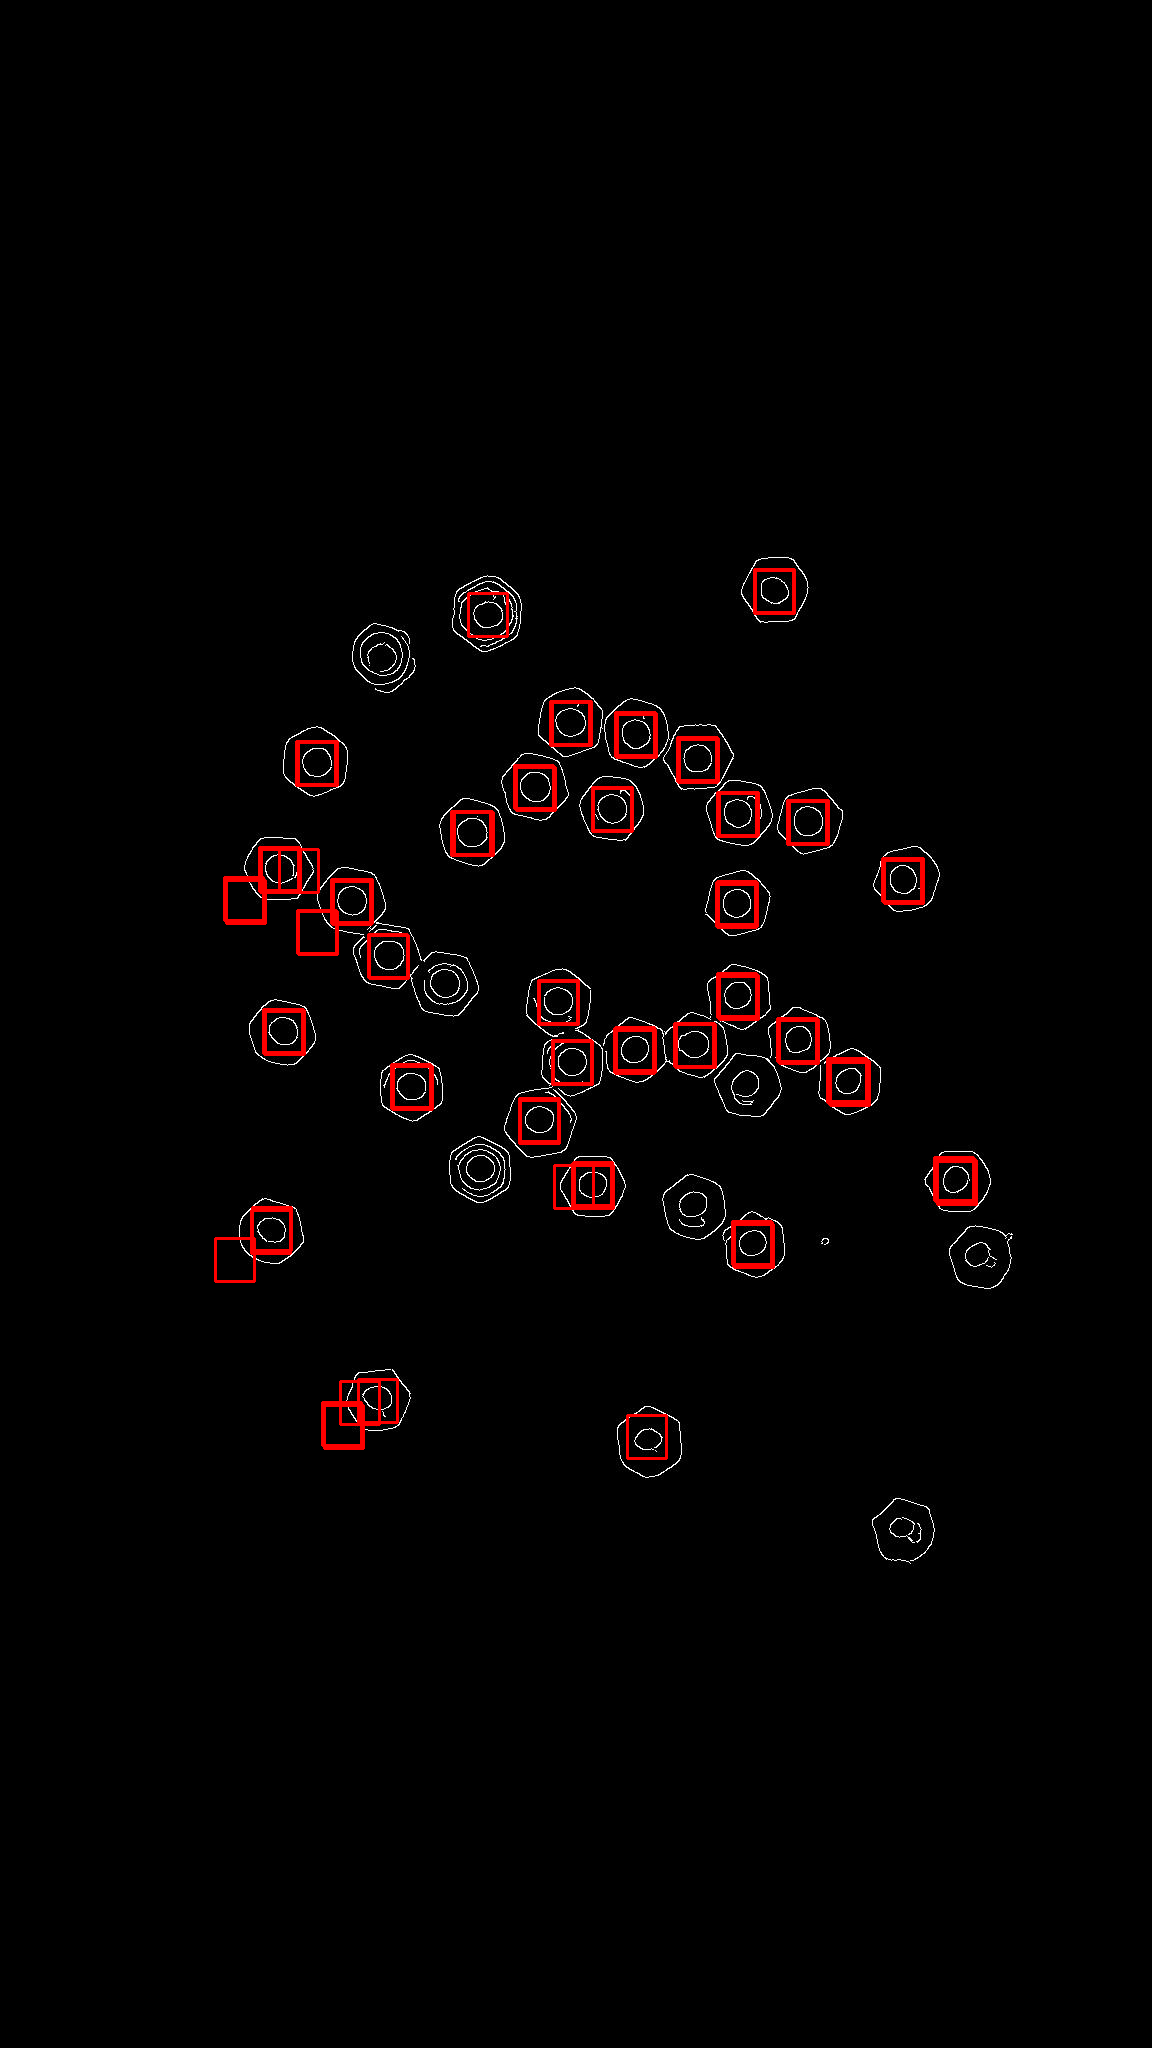
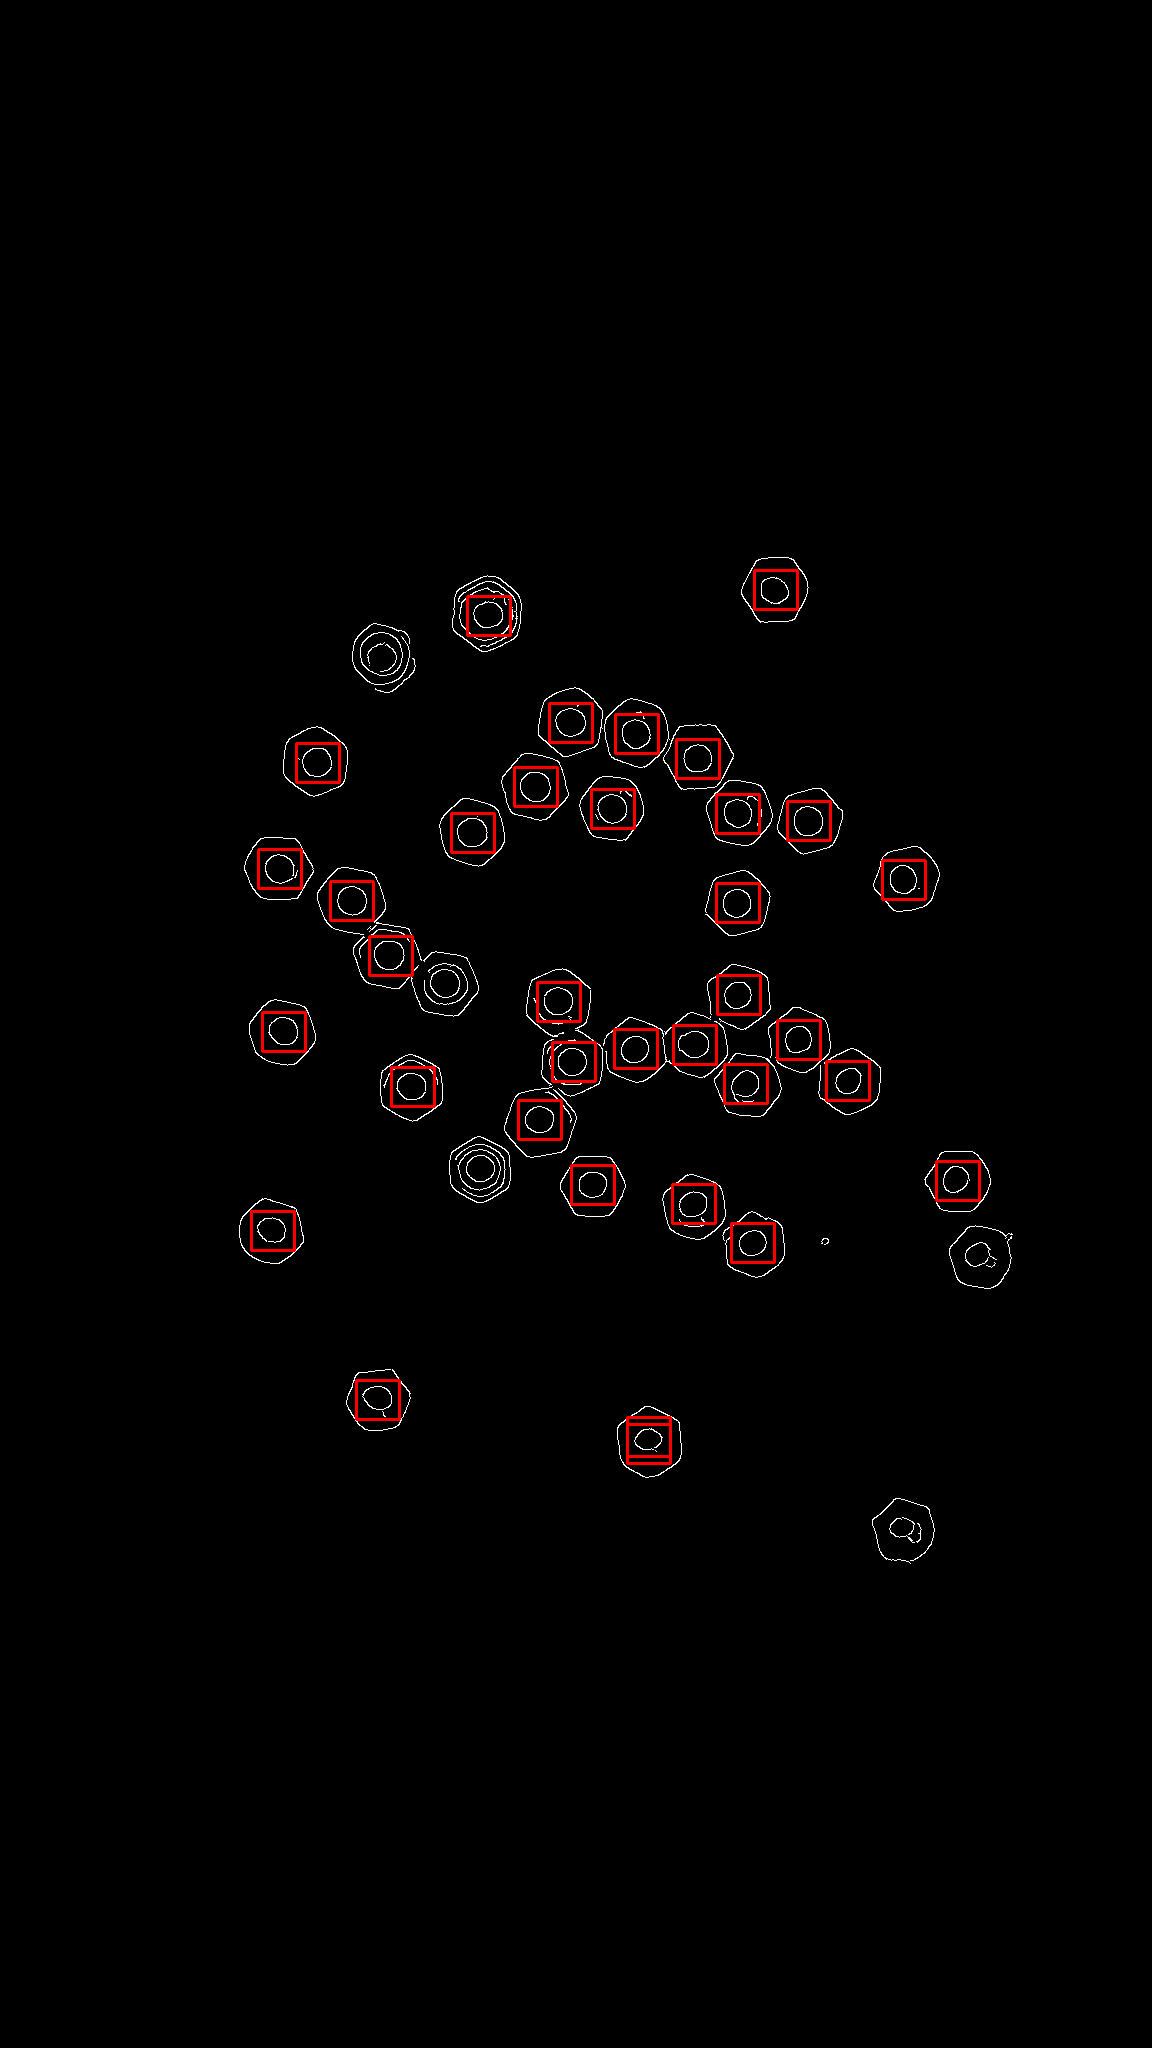
img_count success

diff --git a/final/experiment/template_match2.py b/final/experiment/template_match2.py
@@ -1,0 +1,127 @@
+import numpy as np
+import cv2 as cv
+import math
+
+# from google.colab.patches import cv_imshow
+img = cv.imread('img/rings.jpg') #read image
+hsv_img = cv.cvtColor(img, cv.COLOR_BGR2HSV)  #convert to hsv
+
+# Range for lower red
+lower_red = np.array([0,5,0])
+upper_red = np.array([60,255,255])
+mask1 = cv.inRange(hsv_img, lower_red, upper_red)
+# Range for upper range
+lower_red = np.array([170,30,0])
+upper_red = np.array([100,255,255])
+mask2 = cv.inRange(hsv_img,lower_red,upper_red)
+# mask for lower and upper red
+mask = mask1 + mask2
+# Get image in red pixel only
+redImage = cv.bitwise_and(img.copy(), img.copy(), mask=mask)
+
+gray = cv.cvtColor(redImage, cv.COLOR_BGR2GRAY)
+blured = cv.GaussianBlur(gray,(5,5),0)
+ret, thresh = cv.threshold(mask,0,255,cv.THRESH_BINARY_INV+cv.THRESH_OTSU)
+
+kernel = np.ones((5,5),np.uint8)
+closing = cv.morphologyEx(thresh, cv.MORPH_CLOSE, kernel)
+
+contours, heirarchy = cv.findContours(thresh, cv.RETR_TREE, cv.CHAIN_APPROX_NONE)
+
+# for i in range(0, len(contours)):
+#      contours_info = heirarchy[0][i]
+#      if contours_info[2] == -1 and contours_info[3] == -1:
+#           draw_cont_bult = cv.drawContours(blured, contours, i, (0, 255, 0), thickness = 3)
+#           print(heirarchy[0][i])
+#      if contours_info[2] == -1 and contours_info[3] == 1:
+#           draw_inner_cont_bult = cv.drawContours(blured, contours, i, (255, 0, 0), thickness = 3)
+#           print(heirarchy[0][i])
+
+heirarchy = heirarchy[0]
+max_area = cv.contourArea(contours[0])
+total = 0 # total contour size
+for con in contours:
+     area = cv.contourArea(con) # get contour size
+     total += area
+     if area > max_area:
+        max_area = area
+diff = 0.1 # smallest contour have to bigger than (diff * max_area)
+max_area = int(max_area * diff) # smallest contour have to bigger
+average = int(total / (len(contours))) # average size for contour
+radius_avg = int(math.sqrt(average / 3.14)) # average radius 
+
+average = int(average * diff)
+
+mask = np.zeros(thresh.shape[:2],dtype=np.uint8)
+for component in zip(contours, heirarchy):
+     currentContour = component[0]
+     currentheirarchy = component[1]
+     area = cv.contourArea(currentContour)
+     if currentheirarchy[3] < 0 and area > average:
+          cv.drawContours(mask, [currentContour], 0, (255), -1)
+          
+res1 = img.copy()
+# count = 0 #result
+
+# Store bounding rectangles and object id here:
+objectData = []
+
+# ObjectCounter:
+objectCounter = 1
+
+# Look for the outer bounding boxes (no children):
+for _, c in enumerate(contours):
+    # Get the contour's bounding rectangle:
+    boundRect = cv.boundingRect(c)
+
+    # Store in list:
+    objectData.append((objectCounter, boundRect))
+
+    # Get the dimensions of the bounding rect:
+    rectX = boundRect[0]
+    rectY = boundRect[1]
+    rectWidth = boundRect[2]
+    rectHeight = boundRect[3]
+
+    # Draw bounding rect:
+    color = (0, 0, 255)
+    cv.rectangle(res1, (int(rectX), int(rectY)),
+                  (int(rectX + rectWidth), int(rectY + rectHeight)), color, 2)
+
+    # Draw object counter:
+    font = cv.FONT_HERSHEY_SIMPLEX
+    fontScale = 1
+    fontThickness = 2
+    color = (0, 255, 0)
+    cv.putText(res1, str(objectCounter), (int(rectX), int(rectY)), 
+                font, fontScale, color, fontThickness)
+
+    # Increment object counter
+    objectCounter += 1
+
+
+cv.imshow('image', blured)
+# cv.imshow('image', res1)
+cv.waitKey(0)
+cv.destroyAllWindows()
+
+# img_rgb = cv.imread('img/ring_edge.jpg')
+# template = cv.imread('./img/ring_edge_template.jpg', 0)
+
+# w, h = template.shape[::-1]
+# res = cv.matchTemplate(blured,template,cv.TM_CCOEFF_NORMED)
+# threshold = 0.268
+
+# temp_w = -10
+# temp_h = -10
+# count = 0
+# loc = np.where( res >= threshold)
+# print(loc)
+# for pt in zip(*loc[::-1]):
+#     if abs(temp_w - pt[0]) > 4 or abs(temp_h - pt[1]) > 4:
+#         cv.rectangle(img_rgb, pt, (pt[0] + w, pt[1] + h), (0,0,255), 2)
+#         count = count+1
+#     temp_w = pt[0]
+#     temp_h = pt[1]
+# cv.imwrite('res.png',img_rgb)
+# print("count", count)

diff --git a/final/experiment/test_contour.py b/final/experiment/test_contour.py
@@ -1,30 +1,74 @@
-# Import libraries
 import cv2
-import numpy as np
-import matplotlib.pyplot as plt
-image = cv2.imread('img/rings.jpg')
-gray = cv2.cvtColor(image, cv2.COLOR_BGR2GRAY)
-# plt.imshow(gray, cmap='gray')
-plt.imsave("gray.jpg", gray, cmap='gray')
+import numpy as np;
 
-blur = cv2.GaussianBlur(gray, (11, 11), 0)
-# plt.imshow(blur, cmap='gray')
-plt.imsave("blur.jpg", blur, cmap='gray')
+img = cv2.imread('img/rings.jpg') #read image
+hsv_img = cv2.cvtColor(img, cv2.COLOR_BGR2HSV)  #convert to hsv
 
-canny = cv2.Canny(blur, 30, 150, 3)
-plt.imsave("canny.jpg", canny, cmap='gray')
-# plt.imshow(canny, cmap='gray')
+# Range for lower red
+lower_red = np.array([0,5,0])
+upper_red = np.array([60,255,255])
+mask1 = cv2.inRange(hsv_img, lower_red, upper_red)
+# Range for upper range
+lower_red = np.array([170,30,0])
+upper_red = np.array([100,255,255])
+mask2 = cv2.inRange(hsv_img,lower_red,upper_red)
+# mask for lower and upper red
+mask = mask1 + mask2
+# Get image in red pixel only
+redImage = cv2.bitwise_and(img.copy(), img.copy(), mask=mask)
 
-dilated = cv2.dilate(canny, (1, 1), iterations=0)
-plt.imsave("dilate.jpg", dilated, cmap='gray')
-# plt.imshow(dilated, cmap='gray')
+gray = cv2.cvtColor(redImage, cv2.COLOR_BGR2GRAY)
+blured = cv2.GaussianBlur(gray,(5,5),0)
 
-(cnt, hierarchy) = cv2.findContours(
-	dilated.copy(), cv2.RETR_EXTERNAL, cv2.CHAIN_APPROX_NONE)
-rgb = cv2.cvtColor(image, cv2.COLOR_BGR2RGB)
-cv2.drawContours(rgb, cnt, -1, (0, 255, 0), 2)
 
-plt.imshow(rgb)
-plt.imsave("rgb.jpg", rgb, cmap='gray')
+# Read image
+# im = cv2.imread(blured, cv2.IMREAD_GRAYSCALE)
 
-print("items in the image : ", len(cnt))
+# Setup SimpleBlobDetector parameters.
+params = cv2.SimpleBlobDetector_Params()
+
+# Change thresholds
+params.minThreshold = 1 #10
+params.maxThreshold = 100 #200
+
+# Filter by Area.
+params.filterByArea = True # True
+params.minArea = 100 #1500
+
+# Filter by Circularity
+params.filterByCircularity = True #True
+params.minCircularity = 0.1 #0.1
+
+# Filter by Convexity
+params.filterByConvexity = True #True
+params.minConvexity = 0.0 #0.87
+
+# Filter by Inertia
+params.filterByInertia = True #True
+params.minInertiaRatio = 0.0 #0.01
+
+# Create a detector with the parameters
+ver = (cv2.__version__).split('.')
+if int(ver[0]) < 3:
+    detector = cv2.SimpleBlobDetector(params)
+else:
+    detector = cv2.SimpleBlobDetector_create(params)
+
+# Detect blobs.
+keypoints = detector.detect(blured)
+
+# Draw detected blobs as red circles.
+# cv2.DRAW_MATCHES_FLAGS_DRAW_RICH_KEYPOINTS ensures
+# the size of the circle corresponds to the size of blob
+total_count = 0
+for i in keypoints:
+    total_count = total_count + 1
+
+
+im_with_keypoints = cv2.drawKeypoints(blured, keypoints, np.array([]), (0, 0, 255), cv2.DRAW_MATCHES_FLAGS_DRAW_RICH_KEYPOINTS)
+
+# Show blobs
+cv2.imshow("Keypoints", im_with_keypoints)
+cv2.waitKey(0)
+
+print(total_count)

diff --git a/final/experiment/template_match.py b/final/experiment/template_match.py
@@ -3,13 +3,28 @@ import numpy as np
 from matplotlib import pyplot as plt
 img_rgb = cv.imread('img/ring_edge.jpg')
 img_gray = cv.cvtColor(img_rgb, cv.COLOR_BGR2GRAY)
-template = cv.imread('img/ring_edge_template.jpg',0)
+template = cv.imread('./img/ring_edge_template.jpg', 0)
+blured = cv.GaussianBlur(img_gray,(25,25),0)
+
+# template = cv.imread('img/testSmall.jpeg',0)
+cv.imshow('image', blured)
+cv.waitKey(0)
+cv.destroyAllWindows()
+
 w, h = template.shape[::-1]
 res = cv.matchTemplate(img_gray,template,cv.TM_CCOEFF_NORMED)
-threshold = 0.25
+threshold = 0.268
 
+temp_w = -10
+temp_h = -10
+count = 0
 loc = np.where( res >= threshold)
 print(loc)
 for pt in zip(*loc[::-1]):
-    cv.rectangle(img_rgb, pt, (pt[0] + w, pt[1] + h), (0,0,255), 2)
+    if abs(temp_w - pt[0]) > 4 or abs(temp_h - pt[1]) > 4:
+        cv.rectangle(img_rgb, pt, (pt[0] + w, pt[1] + h), (0,0,255), 2)
+        count = count+1
+    temp_w = pt[0]
+    temp_h = pt[1]
 cv.imwrite('res.png',img_rgb)
+print("count", count)
